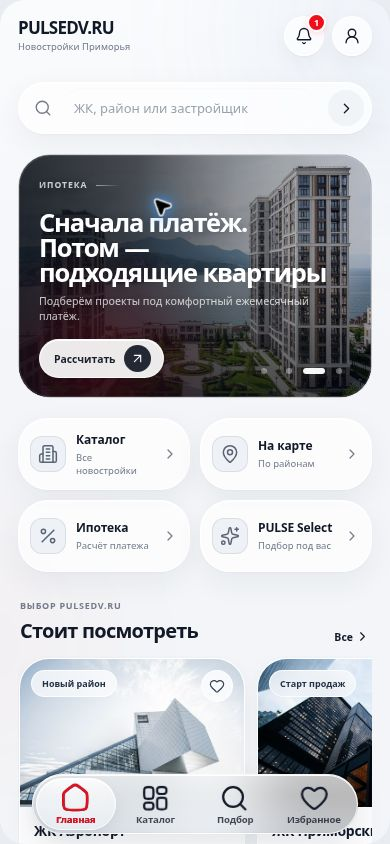
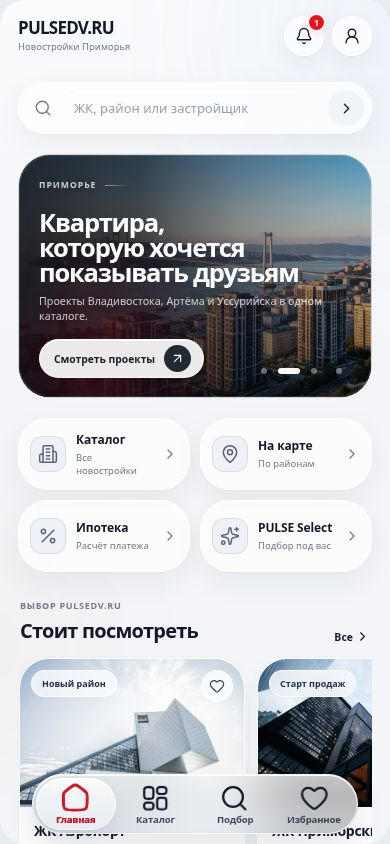
design: simplify landing composition and replace cursor-bearing screenshots

Changed region(s): [[0.0923, 0.1848, 0.9538, 0.4929]]

diff --git a/design/landing-dual-entry/style.css b/design/landing-dual-entry/style.css
@@ -1,15 +1,10 @@
-@font-face{font-family:Manrope;src:url(assets/manrope-400.ttf);font-weight:400;font-display:swap}@font-face{font-family:Manrope;src:url(assets/manrope-500.ttf);font-weight:500;font-display:swap}@font-face{font-family:Manrope;src:url(assets/manrope-600.ttf);font-weight:600;font-display:swap}@font-face{font-family:Onest;src:url(assets/onest-700.ttf);font-weight:700;font-display:swap}@font-face{font-family:Caveat;src:url(assets/caveat-500.ttf);font-weight:500;font-display:swap}
-:root{--ink:#191b20;--red:#e3222e;--muted:#737982;--ease:cubic-bezier(.22,1,.36,1)}
-*{box-sizing:border-box}html{-webkit-text-size-adjust:100%;background:white}body{margin:0;color:var(--ink);font:400 15px/1.6 Manrope,system-ui,sans-serif;min-height:100svh;display:flex;flex-direction:column;-webkit-font-smoothing:antialiased}img{display:block;max-width:100%}a{color:inherit;text-decoration:none;-webkit-tap-highlight-color:transparent}a:focus-visible{outline:2px solid var(--red);outline-offset:5px}.sprite{position:absolute;width:0;height:0;overflow:hidden}svg{width:24px;height:24px;fill:none;stroke:currentColor;stroke-width:1.65;stroke-linecap:round;stroke-linejoin:round;flex:none}h1,p{margin:0}.wrap{width:min(1360px,calc(100% - 88px));margin-inline:auto}.header{height:106px;display:flex;align-items:center;justify-content:space-between;flex:none}.brand img{width:278px;height:auto}.header nav{display:flex;gap:9px}.social{width:42px;height:42px;display:grid;place-items:center;border:1px solid #eaebee;border-radius:50%;transition:background .2s}.social:hover{background:#f5f6f7}.social svg{width:20px;height:20px}
-.hero{flex:1;display:grid;grid-template-columns:1fr 1.08fr;gap:24px;align-items:center;min-height:700px;padding:10px 0 28px}.copy{position:relative;z-index:3;padding-bottom:18px}h1{font:700 clamp(48px,4.9vw,74px)/1.06 Onest,Manrope,sans-serif;letter-spacing:-.048em}.highlight{display:table;position:relative;isolation:isolate;color:#fff;font-size:.64em;white-space:nowrap;letter-spacing:-.035em;line-height:1.3;margin:12px 0 0 -7px;padding:7px 14px 10px;transform:rotate(-.65deg)}.highlight:before{content:"";position:absolute;inset:0;background:url(assets/pencil-highlight.svg) center/100% 100% no-repeat;z-index:-1}.description{margin:26px 0 28px;max-width:480px;font-size:16px;line-height:1.75;color:var(--muted)}.entry-label{font-size:12px;font-weight:500;color:#707782;margin-bottom:12px}.entry-options{display:grid;grid-template-columns:1fr 1fr;gap:12px;max-width:574px}.entry-button{display:flex;align-items:center;gap:12px;padding:17px 15px;border:1px solid #e4e6e9;border-radius:20px;min-width:0;background:linear-gradient(135deg,#fff,#fafafb);box-shadow:0 4px 8px #1c222504,0 12px 30px #1c222505;transition:transform .25s var(--ease),box-shadow .25s,border-color .25s}.entry-button:hover{transform:translateY(-3px);border-color:#e3222e70;box-shadow:0 12px 28px #b51a2510}.entry-button:active{transform:translateY(0) scale(.985)}.entry-icon{width:40px;height:40px;flex:none;display:grid;place-items:center}.app-icon img{width:38px;height:38px;border-radius:11px}.telegram-icon{background:#e3222e;border-radius:12px;color:white}.telegram-icon svg{width:25px;height:25px;stroke-width:1.4}.entry-copy{display:block;min-width:0}.entry-copy strong{display:block;font-size:14px;font-weight:600;white-space:nowrap;line-height:1.4}.entry-copy small{display:block;margin-top:5px;font-size:10px;color:var(--muted);white-space:nowrap}.entry-arrow{width:16px;height:16px;stroke-width:1.6;margin-left:auto;color:#969ba2}.entry-meta{max-width:574px;margin-top:17px;display:flex;align-items:center;flex-wrap:wrap;gap:12px 22px}.account{display:flex;align-items:center;gap:7px;color:#7e848d;font-size:10px}.connected{width:5px;height:5px;border-radius:50%;background:var(--red);opacity:.6}.appstore{display:flex;align-items:center;gap:6px;font-size:11px;color:#6f757d}.appstore svg{width:15px;height:17px}.development{font-size:9px;border:1px solid #e7e8eb;border-radius:6px;padding:2px 5px;color:#969ba2;margin-left:2px}.benefits{display:grid;grid-template-columns:repeat(3,1fr);max-width:482px;gap:16px;list-style:none;margin:30px 0 0;padding:24px 0 0;border-top:1px solid #eceef1}.benefits li{display:flex;gap:10px;align-items:center;font-size:11px;line-height:1.6;color:#666e79}.benefit-icon{display:grid;place-items:center;width:40px;height:44px;border-radius:13px;background:#fafafb;border:1px solid #eceef0;flex:none}.benefit-icon svg{width:23px;height:23px;color:var(--red);stroke-width:1.5}
-.showcase{height:680px;position:relative;isolation:isolate;min-width:0}.handwritten{font:500 28px/1.2 Caveat,cursive;color:#bf2331;z-index:4;position:absolute;white-space:nowrap;pointer-events:none}.top-note{right:9%;top:0;transform:rotate(-4deg)}.top-note span{border-bottom:1px solid #bf23317a;padding-bottom:1px}.bottom-note{right:1%;bottom:13px;transform:rotate(-3deg);font-size:29px}.glow{position:absolute;width:94%;height:72%;top:17%;left:7%;background:radial-gradient(ellipse,#f8e1e4a6,transparent 68%);z-index:-1}.orbit{position:absolute;border:1px solid #f2e7e9;border-radius:50%;width:560px;height:560px;left:0;top:42px;z-index:-2}.orbit-two{width:440px;height:440px;top:102px;left:60px;border-style:dashed;border-color:#efdadd;opacity:.6}.phone{position:absolute;width:250px;height:547px;padding:7px;border-radius:43px;background:linear-gradient(110deg,#45484c,#101113 17%,#292b2f 70%,#595b60);box-shadow:1px 0 0 1px #a9a9aa,-2px 0 0 1px #b6b5b5,0 2px 0 1px #555,6px 12px 16px #11182717,20px 28px 40px #21262c1c}.phone:before,.phone:after{content:"";position:absolute;left:-3px;width:3px;background:linear-gradient(#7b7c80,#292c31);border-radius:3px}.phone:before{height:25px;top:96px}.phone:after{height:54px;top:136px}.phone-home{left:4%;top:58px;transform:rotate(-8deg);z-index:2}.phone-catalog{right:0;top:100px;transform:rotate(8deg);z-index:1}.phone-screen{height:100%;width:100%;overflow:hidden;border-radius:36px;background:#f5f6f9;position:relative;border:1px solid #08090a}.status{position:absolute;top:11px;left:18px;right:17px;display:flex;align-items:center;justify-content:space-between;font-size:10px;font-weight:600;z-index:2;line-height:1;color:#111721}.status-icons{display:flex;gap:4px;align-items:center}.status-icons i{height:8px;width:11px;background:linear-gradient(90deg,#111721 20%,transparent 20% 30%,#111721 30% 50%,transparent 50% 60%,#111721 60% 80%,transparent 80%);clip-path:polygon(0 75%,20% 75%,20% 50%,50% 50%,50% 25%,80% 25%,80% 0,100% 0,100% 100%,0 100%)}.status-icons b{font-size:13px;line-height:8px}.status-icons em{width:15px;height:7px;border:1px solid #18202b;border-radius:2px;background:#18202b}.island{width:68px;height:17px;position:absolute;top:8px;left:50%;transform:translateX(-50%);border-radius:15px;background:#08090a;z-index:3}.screen-image{position:absolute;left:0;top:34px;width:100%;height:calc(100% - 34px);object-fit:fill}.catalog-crop{position:absolute;top:34px;left:0;width:100%;height:calc(100% - 34px);overflow:hidden}.catalog-crop img{position:absolute;max-width:none;width:349.487%;height:110.9%;left:50%;top:50%;transform:translate(-50%,-50%)}.home-indicator{position:absolute;width:66px;height:3px;background:#12161f;bottom:4px;left:50%;transform:translateX(-50%);border-radius:8px;z-index:3}.floating{position:absolute;display:flex;align-items:center;gap:12px;background:#ffffffed;border:1px solid #fff;border-radius:17px;box-shadow:0 10px 28px #332a3510,0 1px 5px #332a3509;padding:14px 16px;z-index:4;backdrop-filter:blur(12px)}.floating strong{font-size:12px;display:block;font-weight:600;line-height:1.5}.floating small{display:block;font-size:10px;color:#858b94;margin-top:2px}.saved{right:-8px;top:48px;transform:rotate(3deg)}.floating-icon{width:35px;height:35px;border-radius:11px;background:#fff0f1;color:var(--red);display:grid;place-items:center}.floating-icon svg{width:21px;height:21px}.tiny-heart{font-size:14px;color:#e3222e;margin-left:8px}.selection{left:-5%;bottom:78px;transform:rotate(-4deg);padding:14px 18px}.selection-mark{width:36px;height:36px;display:grid;place-items:center;background:#fff0f1;color:var(--red);border-radius:11px}.selection small{font-size:8px;letter-spacing:1.3px;margin:0 0 2px}.floating-arrow{width:18px;height:18px;margin-left:12px;color:#acb0b6}.scan{position:absolute;display:flex;align-items:center;gap:10px;right:1%;bottom:71px;z-index:5;padding:7px 10px;background:#fff;border-radius:13px;box-shadow:0 6px 20px #30303006;border:1px solid #eeeff2}.scan img{width:50px;height:50px}.scan strong{display:block;font-size:9px;font-weight:500}.scan small{display:block;color:#8a9098;font-size:8px;margin-top:3px}.footer{padding:13px 0 20px;display:flex;justify-content:space-between;align-items:center;color:#9a9da3;font-size:10px;flex:none}.footer p{display:flex;align-items:center;gap:10px}.footer span{color:#c3c5ca}.footer i{width:20px;height:1px;background:#ddd}
-@media(min-width:1500px){.showcase{height:720px}.phone{width:276px;height:604px}.phone-home{left:7%}.phone-catalog{right:2%}.saved{right:0;top:60px}.orbit{left:18px;top:45px;width:600px;height:600px}.orbit-two{width:470px;height:470px;left:83px;top:110px}.selection{bottom:64px}.scan{bottom:75px}.bottom-note{bottom:5px}}
-@media(min-width:960px) and (max-width:1190px){.wrap{width:calc(100% - 56px)}.hero{gap:18px;grid-template-columns:1.05fr 1fr;min-height:650px}h1{font-size:54px}.entry-options{gap:8px}.entry-button{gap:8px;padding:14px 11px}.entry-copy strong{font-size:12px}.entry-copy small{font-size:8px}.entry-arrow{display:none}.entry-icon{width:32px;height:32px}.app-icon img{width:32px;height:32px}.telegram-icon svg{width:21px}.showcase{height:610px}.phone{width:210px;height:460px}.phone-home{left:2%;top:62px}.phone-catalog{right:0;top:106px}.saved{top:20px;right:-3px;padding:10px 12px}.saved strong{font-size:10px}.saved small{font-size:8px}.tiny-heart{display:none}.selection{left:0;bottom:58px;padding:10px 12px}.scan{display:none}.orbit{width:440px;height:440px;top:84px;left:0}.orbit-two{width:350px;height:350px;top:129px;left:45px}.top-note{top:0;left:0;right:auto;font-size:24px}.bottom-note{font-size:25px;right:0;bottom:3px}.description{font-size:14px}.benefits{gap:8px}.benefits li{font-size:10px;gap:7px}.entry-meta{gap:10px}.account{font-size:9px}}
-@media(max-width:959px){.wrap{width:min(620px,calc(100% - 40px))}.header{height:85px}.brand img{width:220px}.social{width:34px;height:34px}.header nav{gap:6px}.social svg{width:18px}.hero{display:flex;flex-direction:column;gap:12px;padding:25px 0 0;min-height:0}.copy{width:100%;padding:0}h1{font-size:clamp(43px,8vw,66px);letter-spacing:-.05em}.highlight{font-size:.63em;padding:8px 12px 11px;margin-top:10px}.description{font-size:14px;margin:23px 0;max-width:460px}.desktop-break{display:none}.entry-options{gap:10px}.entry-button{padding:15px 13px;gap:10px}.entry-copy strong{font-size:13px}.entry-copy small{font-size:9px}.entry-arrow{display:none}.entry-meta{gap:10px 20px}.benefits{max-width:none;margin:23px 0 0;padding-top:20px}.showcase{height:640px;width:100%;max-width:570px;margin-top:15px}.phone-home{left:8%;top:45px}.phone-catalog{right:3%;top:85px}.phone{width:245px;height:537px}.saved{right:0;top:15px}.selection{left:0;bottom:35px}.scan{display:none}.bottom-note{bottom:-6px;right:0;font-size:26px}.top-note{top:-13px;left:4%;right:auto;font-size:26px}.orbit{width:520px;height:520px;top:45px;left:0}.orbit-two{width:400px;height:400px;top:105px;left:60px}.footer{margin-top:30px;justify-content:center;padding-bottom:23px}.footer p:first-child{display:none}}
-@media(max-width:480px){.wrap{width:calc(100% - 36px)}.header{height:74px}.brand img{width:200px}.header nav{gap:1px}.social{border:0;width:32px}.hero{padding-top:18px}h1{font-size:48px}.highlight{font-size:.61em}.description{font-size:13px;line-height:1.75;margin:20px 0 22px}.entry-label{font-size:11px;margin-bottom:10px}.entry-options{grid-template-columns:1fr;gap:9px}.entry-button{padding:13px 16px;border-radius:18px;gap:14px;min-height:72px}.entry-copy strong{font-size:15px}.entry-copy small{font-size:11px;margin-top:3px}.entry-arrow{display:block;width:18px;height:18px}.entry-icon{width:38px;height:38px}.entry-meta{justify-content:center;gap:12px;margin-top:14px}.account{font-size:9px}.appstore{font-size:10px}.appstore svg{width:13px}.development{font-size:8px}.benefits{margin-top:20px;padding-top:18px;gap:10px}.benefits li{font-size:9px;gap:7px}.benefit-icon{width:32px;height:36px;border-radius:11px}.benefit-icon svg{width:20px;height:20px}.showcase{height:510px;margin-top:20px}.phone{width:183px;height:401px;border-radius:34px;padding:5px}.phone-screen{border-radius:29px}.phone-home{top:40px;left:2%}.phone-catalog{right:1%;top:76px}.island{width:51px;height:13px;top:6px}.status{top:9px;left:13px;right:13px;font-size:8px}.status-icons{gap:2px}.status-icons i{width:9px;height:6px}.status-icons b{font-size:10px}.status-icons em{width:11px;height:6px}.screen-image,.catalog-crop{top:27px;height:calc(100% - 27px)}.home-indicator{width:49px;height:2px}.saved{top:4px;right:0;padding:9px 10px;gap:8px;border-radius:13px}.floating strong{font-size:9px}.floating small{font-size:8px}.floating-icon,.selection-mark{width:27px;height:27px;border-radius:9px}.floating-icon svg,.selection-mark svg{width:17px;height:17px}.tiny-heart{display:none}.selection{left:0;bottom:45px;padding:10px 13px;gap:9px;border-radius:13px}.selection small{font-size:6px}.floating-arrow{width:15px;margin-left:6px}.top-note{font-size:23px;top:-8px;left:0}.bottom-note{font-size:24px;bottom:4px;right:0}.orbit{width:350px;height:350px;top:70px;left:0}.orbit-two{width:275px;height:275px;top:107px;left:37px}.footer{margin-top:12px;font-size:8px}.phone:before{top:75px;height:18px}.phone:after{top:105px;height:38px}}
-@media(max-width:360px){h1{font-size:43px}.brand img{width:183px}.showcase{height:465px}.phone{width:164px;height:360px}.phone-home{left:1%}.phone-catalog{right:0}.saved strong{font-size:8px}.top-note{font-size:20px}.orbit{width:300px;height:300px;top:65px;left:5px}.orbit-two{width:240px;height:240px;top:95px;left:35px}.selection{bottom:42px}.bottom-note{font-size:22px}.benefits li{font-size:8px}}
-@media(prefers-reduced-motion:no-preference){.copy,.showcase{animation:appear .7s var(--ease) both}.showcase{animation-delay:.12s}.floating{animation:float 7s ease-in-out infinite}.selection{animation-delay:-3s}@keyframes appear{from{opacity:0;translate:0 12px}to{opacity:1;translate:0 0}}@keyframes float{0%,100%{translate:0 0}50%{translate:0 -6px}}}
-
-@media(min-width:1191px){.phone-catalog{right:10%}.bottom-note{bottom:-22px}}
-@media(max-width:959px){.showcase{overflow:clip}.top-note{top:0;left:8px}.saved{top:110px}}
-@media(max-width:480px){.showcase{height:550px}.saved{top:120px}.selection{bottom:65px}.bottom-note{bottom:5px}.phone-home{top:48px}.phone-catalog{top:85px}}
+@font-face{font-family:Manrope;src:url(assets/manrope-400.ttf);font-weight:400;font-display:swap}@font-face{font-family:Manrope;src:url(assets/manrope-600.ttf);font-weight:600;font-display:swap}@font-face{font-family:Onest;src:url(assets/onest-700.ttf);font-weight:700;font-display:swap}
+:root{--red:#df1428;--ink:#191b20}*{box-sizing:border-box}html{background:#fff;-webkit-text-size-adjust:100%}body{margin:0;min-height:100svh;display:flex;flex-direction:column;color:var(--ink);font:400 15px/1.65 Manrope,system-ui,sans-serif;-webkit-font-smoothing:antialiased}a{color:inherit;text-decoration:none}a:focus-visible{outline:2px solid var(--red);outline-offset:5px}img{display:block;max-width:100%}svg{width:24px;height:24px;fill:none;stroke:currentColor;stroke-width:1.6;stroke-linecap:round;stroke-linejoin:round;flex:none}.sprite{position:absolute;width:0;height:0;overflow:hidden}p,h1{margin:0}.wrap{width:min(1280px,calc(100% - 96px));margin-inline:auto}.header{height:112px;display:flex;align-items:center;justify-content:space-between}.brand img{width:274px;height:auto}.header nav{display:flex;gap:22px}.social{display:grid;place-items:center;width:28px;height:32px}.social svg{width:21px;height:21px}.hero{flex:1;display:grid;grid-template-columns:1fr 1fr;align-items:center;gap:24px;min-height:690px;padding:12px 0 50px}.copy{position:relative;z-index:3;padding-bottom:14px}h1{font:700 clamp(48px,4.9vw,70px)/1.06 Onest,sans-serif;letter-spacing:-.05em}.highlight{display:table;position:relative;isolation:isolate;color:white;font-size:.61em;letter-spacing:-.035em;white-space:nowrap;margin:18px 0 0 -8px;padding:10px 16px 13px;transform:rotate(-.8deg)}.highlight:before{content:"";position:absolute;inset:0;background:url(assets/pencil-highlight.svg) center/100% 100% no-repeat;z-index:-1}.description{font-size:16px;line-height:1.8;color:#62666d;margin:29px 0 34px;max-width:490px}.entry-options{display:flex;flex-wrap:wrap;gap:12px}.entry-button{min-height:56px;padding:0 21px;display:inline-flex;align-items:center;justify-content:center;gap:11px;border-radius:12px;background:var(--red);color:#fff;font-size:13px;transition:background .18s}.entry-button:hover{background:#bb1021}.entry-copy strong{font-weight:600;white-space:nowrap}.entry-button svg{width:20px;height:20px}.entry-arrow{display:none}.entry-meta{margin-top:25px}.appstore{display:inline-flex;align-items:center;gap:7px;font-size:11px;color:#989ba0}.appstore svg{width:15px;height:17px}.development{margin-left:5px;color:#989ba0}.showcase{height:650px;position:relative;min-width:0;isolation:isolate}.phone{position:absolute;width:264px;height:573px;padding:6px;border-radius:43px;background:#191a1b;border:1px solid #909195;box-shadow:1px 1px 0 #595b5f,0 22px 30px -18px #25252565}.phone-home{left:1%;top:8px;transform:rotate(-5deg);z-index:2}.phone-catalog{right:1%;top:68px;transform:rotate(5deg);z-index:1}.phone-screen{width:100%;height:100%;overflow:hidden;position:relative;border-radius:36px;background:#f5f6f8}.status{position:absolute;top:12px;left:21px;right:20px;display:flex;align-items:center;justify-content:space-between;font-size:10px;font-weight:600;line-height:1;z-index:2;color:#101116}.status-icons{display:flex;gap:4px;align-items:center}.status-icons i{width:10px;height:8px;background:linear-gradient(90deg,#191b20 20%,transparent 20% 30%,#191b20 30% 50%,transparent 50% 60%,#191b20 60% 80%,transparent 80%);clip-path:polygon(0 75%,20% 75%,20% 50%,50% 50%,50% 25%,80% 25%,80% 0,100% 0,100% 100%,0 100%)}.status-icons b{font-size:13px;line-height:8px}.status-icons em{width:14px;height:7px;background:#191b20;border-radius:2px}.island{position:absolute;top:8px;left:50%;transform:translateX(-50%);width:68px;height:18px;background:#08090a;border-radius:20px;z-index:3}.screen-image,.catalog-crop{position:absolute;left:0;top:35px;width:100%;height:calc(100% - 35px)}.screen-image{object-fit:fill}.catalog-crop img{width:100%;height:100%;object-fit:fill}.home-indicator{position:absolute;bottom:4px;left:50%;transform:translateX(-50%);width:68px;height:3px;background:#191b20;border-radius:5px;z-index:3}.footer{display:flex;align-items:center;justify-content:space-between;font-size:10px;color:#989ba0;padding:10px 0 24px}.footer p{display:flex;gap:12px;align-items:center}.footer i{display:block;width:20px;height:1px;background:#ddd}
+@media(min-width:1500px){.phone{width:278px;height:605px}.showcase{height:690px}}
+@media(min-width:960px) and (max-width:1190px){.wrap{width:calc(100% - 64px)}h1{font-size:55px}.entry-options{gap:9px}.entry-button{padding:0 13px;font-size:11px;gap:7px}.phone{width:220px;height:480px;border-radius:37px}.phone-screen{border-radius:31px}.showcase{height:560px}.phone-home{left:0;top:10px}.phone-catalog{right:0;top:65px}.hero{min-height:620px}.description{font-size:14px}}
+@media(max-width:959px){.wrap{width:min(600px,calc(100% - 40px))}.header{height:86px}.brand img{width:216px}.hero{display:flex;flex-direction:column;gap:38px;padding:27px 0 0;min-height:0}.copy{width:100%;padding:0}h1{font-size:clamp(43px,8vw,65px)}.description{font-size:15px;margin:24px 0 27px}.desktop-break{display:none}.entry-button{flex:1;min-height:58px;padding:0 12px;font-size:12px}.entry-meta{margin-top:19px}.showcase{height:620px;width:100%;overflow:clip}.phone{width:255px;height:556px}.phone-home{left:6%;top:10px}.phone-catalog{right:5%;top:58px}.footer{padding-top:22px;justify-content:center}.footer p:first-child{display:none}}
+@media(max-width:480px){.wrap{width:calc(100% - 36px)}.header{height:74px}.brand img{width:197px}.header nav{gap:12px}.social svg{width:19px}.hero{padding-top:18px;gap:30px}h1{font-size:46px}.highlight{margin-top:14px;padding:8px 12px 11px;font-size:.61em}.description{font-size:13px;margin:23px 0 25px}.entry-options{gap:9px;flex-direction:column}.entry-button{flex:auto;font-size:14px;min-height:54px}.entry-meta{text-align:center;margin-top:17px}.showcase{height:465px}.phone{width:183px;height:400px;border-radius:32px;padding:5px}.phone-screen{border-radius:26px}.phone-home{left:2%;top:12px}.phone-catalog{right:2%;top:55px}.status{top:9px;left:14px;right:13px;font-size:8px}.island{top:6px;width:48px;height:13px}.status-icons{gap:2px}.status-icons i{width:8px;height:6px}.status-icons b{font-size:10px}.status-icons em{width:11px;height:5px}.screen-image,.catalog-crop{top:27px;height:calc(100% - 27px)}.home-indicator{width:48px;height:2px}.footer{font-size:8px;padding-top:0}}
+@media(max-width:360px){h1{font-size:41px}.phone{width:165px;height:361px}.showcase{height:423px}.brand img{width:180px}}
+@media(min-width:960px){.entry-button{flex:1;max-width:240px}.phone-catalog{right:6%}}
+@media(max-width:480px){.phone{width:calc(50% - 9px);height:auto;aspect-ratio:183/400}.phone-screen{position:absolute;inset:5px;width:auto;height:auto}.phone-home{left:9px}.phone-catalog{right:9px}}
+@media(prefers-reduced-motion:reduce){*{transition:none!important}}

diff --git a/design/landing-dual-entry/index.html b/design/landing-dual-entry/index.html
@@ -23,28 +23,18 @@
 <h1>Новостройки<br>Приморья —<span class="highlight">в одном приложении</span></h1>
 <p class="description">Сравнивайте ЖК и квартиры, изучайте цены,<br class="desktop-break"> сохраняйте варианты и выбирайте самостоятельно.</p>
 <div class="entry">
-<p class="entry-label">Открывайте как вам удобно</p>
+
 <div class="entry-options">
-<a class="entry-button" href="https://pulsedv.ru/app/"><span class="entry-icon app-icon"><img src="assets/pulse-mark-180-v2.png" width="36" height="36" alt=""></span><span class="entry-copy"><strong>На главный экран</strong><small>Приложение для телефона</small></span><svg class="entry-arrow"><use href="#arrow"/></svg></a>
-<a class="entry-button" href="https://t.me/pulsedvbot?startapp"><span class="entry-icon telegram-icon"><svg><use href="#tg"/></svg></span><span class="entry-copy"><strong>В Telegram</strong><small>Открыть мини-приложение</small></span><svg class="entry-arrow"><use href="#arrow"/></svg></a>
+<a class="entry-button" href="https://pulsedv.ru/app/"><svg class="button-phone" viewBox="0 0 24 24"><rect x="6" y="2" width="12" height="20" rx="3"/><path d="M10 18h4"/></svg><span class="entry-copy"><strong>Установить приложение</strong></span><svg class="entry-arrow"><use href="#arrow"/></svg></a>
+<a class="entry-button" href="https://t.me/pulsedvbot?startapp"><svg class="button-tg"><use href="#tg"/></svg><span class="entry-copy"><strong>Открыть в Telegram</strong></span><svg class="entry-arrow"><use href="#arrow"/></svg></a>
 </div>
-<div class="entry-meta"><p class="account"><span class="connected"></span>Единый аккаунт и избранное.</p><span class="appstore"><svg><use href="#apple"/></svg>App Store<span class="development">В разработке</span></span></div>
+<div class="entry-meta"><span class="appstore"><svg><use href="#apple"/></svg>App Store<span class="development">В разработке</span></span></div>
 </div>
-<ul class="benefits">
-<li><span class="benefit-icon"><svg><use href="#buildings"/></svg></span><span>Новостройки<br>Приморья</span></li>
-<li><span class="benefit-icon"><svg><use href="#heart"/></svg></span><span>Ваши<br>избранные</span></li>
-<li><span class="benefit-icon"><svg><use href="#sliders"/></svg></span><span>Удобное<br>сравнение</span></li>
-</ul>
+
 </section>
 <section class="showcase" aria-label="Интерфейс приложения PULSEDV.RU">
-<p class="handwritten top-note">Ближе к вашему <span>завтра</span></p>
-<div class="orbit orbit-one"></div><div class="orbit orbit-two"></div><div class="glow"></div>
 <div class="phone phone-home"><div class="phone-edge"></div><div class="phone-screen"><div class="status"><span>9:41</span><span class="status-icons"><i></i><b>◔</b><em></em></span></div><div class="island"></div><img class="screen-image" src="assets/app-home.jpg" alt="Главная PULSEDV.RU: поиск ЖК, ипотека и избранное" width="390" height="844"><div class="home-indicator"></div></div></div>
-<div class="phone phone-catalog"><div class="phone-edge"></div><div class="phone-screen"><div class="status"><span>9:41</span><span class="status-icons"><i></i><b>◔</b><em></em></span></div><div class="island"></div><div class="catalog-crop" role="img" aria-label="Каталог PULSEDV.RU с фильтрами и карточками новостроек"><img src="assets/app-catalog-wide.jpg" alt="" width="1363" height="936"></div><div class="home-indicator"></div></div></div>
-<div class="floating saved"><span class="floating-icon"><svg><use href="#heart"/></svg></span><div><strong>То, что нравится — рядом</strong><small>Сохраняйте и сравнивайте</small></div><span class="tiny-heart">♥</span></div>
-<div class="floating selection"><span class="selection-mark"><svg><use href="#sliders"/></svg></span><div><small>PULSE SELECT</small><strong>Подбор под ваш бюджет</strong></div><svg class="floating-arrow"><use href="#arrow"/></svg></div>
-<div class="scan"><img src="assets/qr.svg" width="64" height="64" alt="QR-код лендинга PULSEDV.RU"><div><strong>Продолжите на телефоне</strong><small>Наведите камеру на QR-код</small></div></div>
-<p class="handwritten bottom-note">Ваш город. Ваш дом. Ваш выбор.</p>
+<div class="phone phone-catalog"><div class="phone-edge"></div><div class="phone-screen"><div class="status"><span>9:41</span><span class="status-icons"><i></i><b>◔</b><em></em></span></div><div class="island"></div><div class="catalog-crop" role="img" aria-label="Каталог PULSEDV.RU с фильтрами и карточками новостроек"><img src="assets/app-catalog.jpg" alt="" width="390" height="844"></div><div class="home-indicator"></div></div></div>
 </section>
 </main>
 <footer class="wrap footer"><p>Владивосток <span>·</span> Уссурийск <span>·</span> Артём</p><p>PULSEDV.RU <i></i> Больше, чем квадратные метры</p></footer>

diff --git a/design/landing-dual-entry/README.md b/design/landing-dual-entry/README.md
@@ -13,3 +13,5 @@ Before release: confirm the iOS status text, enable and verify /app/, attach
 first-party channel attribution to both entry paths, and replace fixture
 screens with approved current catalog screenshots. Keep the existing Instagram
 destination and tracking when integrating with production landing markup.
+
+Revision 2: removed floating marketing cards, ornaments and benefit tiles; replaced both screenshots with cursor-free browser captures; simplified equal-size entry buttons. Desktop and 375px mobile layout reviewed.
